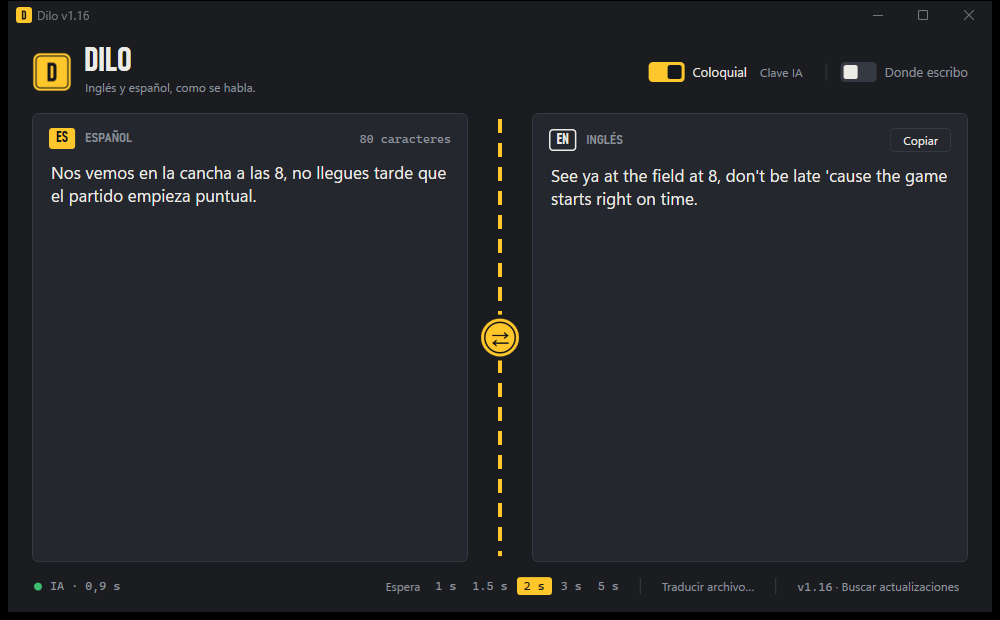
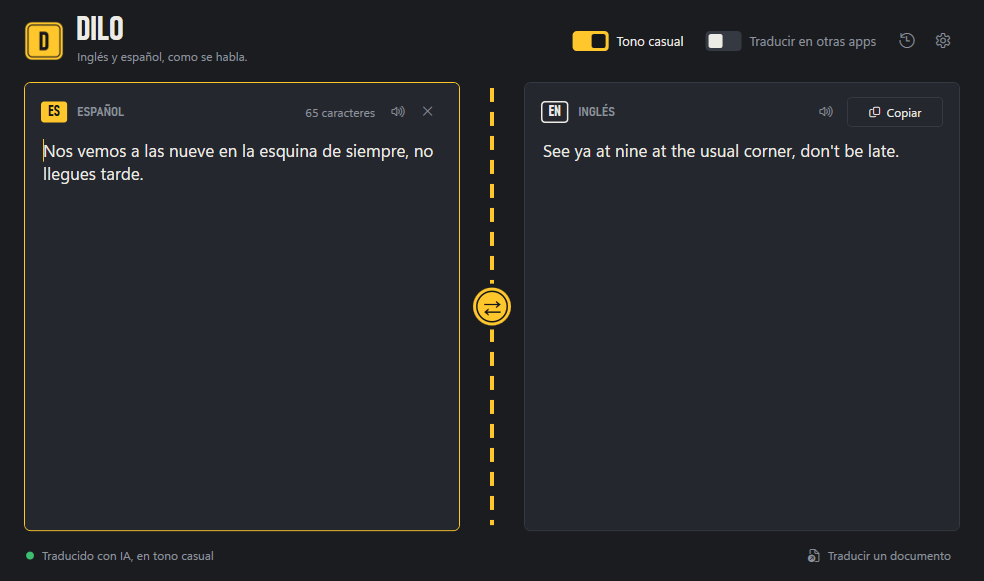
Docs for 1.17.0: changelog, features, privacy, troubleshooting and new screenshot

diff --git a/README.md b/README.md
@@ -36,6 +36,11 @@ maintained privately.
   any app, and **Replace what I wrote** swaps your sentence for the translation in place.
 - **Selection shortcut.** Select text in any app and press <kbd>Ctrl</kbd>+<kbd>Shift</kbd>+<kbd>T</kbd>.
 - **Documents.** Translate `.txt`, `.md`, `.docx` and `.srt` files while keeping their structure.
+- **Listen.** Hear either text read aloud with the voices built into Windows.
+- **History.** Your last 50 translations, one click away, encrypted on your PC.
+- **Always at hand.** Dilo lives in the system tray, can start with Windows and remembers
+  its window size and position.
+- **Light, dark or match Windows**, with adjustable text size (<kbd>Ctrl</kbd> + mouse wheel).
 - **In-app updates.** Dilo checks this repository and updates itself in one click.
 
 ## System requirements
@@ -62,7 +67,7 @@ next to each file. To check the file you downloaded, open PowerShell in your Dow
 and run:
 
 ```powershell
-Get-FileHash .\Dilo-Setup-1.16.0.msi -Algorithm SHA256
+Get-FileHash .\Dilo-Setup-1.17.0.msi -Algorithm SHA256
 ```
 
 The `Hash` value must match the one published in the release. If it does not, delete the
@@ -72,9 +77,10 @@ file and download it again.
 
 From version 1.16.0, Dilo updates itself:
 
-1. Dilo checks for new versions when it starts. You can also select
-   **Buscar actualizaciones** (Check for updates) in the bottom-right corner.
-2. When a new version is available, select **Actualizar a vX.Y.Z** (Update to vX.Y.Z).
+1. Dilo checks for new versions when it starts. You can also open **Ajustes** (Settings,
+   the gear icon) and select **Buscar actualizaciones** (Check for updates).
+2. When a new version is available, select **Actualizar a la versión X.Y.Z**
+   (Update to version X.Y.Z) in the bottom-right corner.
 3. Dilo downloads the installer, verifies its checksum, closes, installs the update and
    reopens. Windows asks for permission once.
 
@@ -83,19 +89,25 @@ updated once by downloading the installer manually.
 
 ## Uninstalling
 
-Open **Settings → Apps → Installed apps**, find **Dilo** and select **Uninstall**.
-Your settings stay in `%AppData%\TraductorENES`; delete that folder to remove them too.
+First quit Dilo: right-click its tray icon and select **Salir de Dilo** (Quit Dilo). Then open
+**Settings → Apps → Installed apps**, find **Dilo** and select **Uninstall**.
+Your settings and history stay in `%AppData%\TraductorENES`; delete that folder to remove
+them too.
 
 ## Privacy
 
 - **What leaves your PC:** only the text being translated, sent over HTTPS to the
   translation service in use: Google Translate, Groq (casual mode, with your own key) or
   MyMemory (fallback).
-- **What stays on your PC:** your settings and API key, stored in
-  `%AppData%\TraductorENES\settings.json`.
+- **What stays on your PC:** your settings in `%AppData%\TraductorENES`. Your API key and
+  your translation history are encrypted with Windows Data Protection (DPAPI): only your
+  Windows account, on this PC, can read them. History can be turned off or cleared in
+  Settings.
 - **Translate where you type** is off by default. When enabled, Dilo reads the keys you
   type in other apps to build the current sentence. That sentence is held in memory only
-  long enough to translate it and is never written to disk.
+  long enough to translate it, is never written to disk and never enters the history.
+  Password fields and password managers are ignored completely.
+- Diagnostic logs record events, never the text you type, and are capped at about 1 MB.
 - Dilo has no accounts, no analytics and no advertising.
 
 ## Troubleshooting
@@ -104,13 +116,16 @@ Your settings stay in `%AppData%\TraductorENES`; delete that folder to remove th
 |---|---|
 | "Windows protected your PC" when installing | Select **More info → Run anyway**. See [Installation](#installation). |
 | Translations stop working | Check your internet connection. If Google is unavailable, Dilo falls back to AI (with a key) or MyMemory automatically. |
-| Casual mode has no effect | Add your free Groq API key with **Clave IA** (AI key). |
+| Translations stop working and a red notice appears | Check your connection and select **Reintentar** (Retry). |
+| Casual mode has no effect | Open **Ajustes** (Settings) and add your free Groq API key under **Clave de IA**. |
 | <kbd>Ctrl</kbd>+<kbd>Shift</kbd>+<kbd>T</kbd> does nothing | Another app may already use that shortcut. Close it and restart Dilo. |
+| Closing the window doesn't quit Dilo | By default Dilo asks; if you chose the tray, quit from the tray icon or change it in **Ajustes → Al cerrar la ventana**. |
+| "Listen" says there is no voice | Add the English or Spanish voice in **Windows Settings → Time & language → Speech**. |
 
 ## Support
 
 Found a bug or have a suggestion? [Open an issue](https://github.com/Grawkles/Dilo-releases/issues/new)
-and include your Dilo version (shown in the bottom-right corner of the window) and your
+and include your Dilo version (shown in the title bar and in **Ajustes → Acerca de**) and your
 Windows version. For security issues, see [SECURITY.md](SECURITY.md).
 
 ## License

diff --git a/CHANGELOG.md b/CHANGELOG.md
@@ -7,6 +7,44 @@ and this project adheres to [Semantic Versioning](https://semver.org/spec/v2.0.0
 
 ## [Unreleased]
 
+## [1.17.0] - 2026-10-22
+
+### Added
+
+- A four-step introduction the first time Dilo opens, available again from Settings.
+- A Settings window with sections for translation, other apps, appearance, general options
+  and version information.
+- Light theme and a "Match Windows" option that follow changes instantly, without restarting.
+- Translation history: the last 50 translations from the main window, encrypted on your PC.
+- Listen buttons that read the text or the translation aloud with the voices in Windows.
+- Clear button for the text box, and text size control with <kbd>Ctrl</kbd> + mouse wheel.
+- System tray icon. Dilo can stay in the tray when the window is closed and start with Windows.
+- When you close the window, Dilo asks whether to keep running in the tray or quit, with an
+  option to remember your choice.
+- An error notice with a **Retry** button when a translation fails.
+- A notice when Dilo detects the language you are typing in and switches direction.
+- Animations throughout: a loading screen, the window entrance, the road line moving while
+  Dilo translates, flipping language signs, paint flecks when you copy and an animated
+  close prompt. They are turned off when Windows animation effects are off.
+
+### Changed
+
+- The main window is simpler: everything except translating moved to Settings, and status
+  messages use plain language.
+- The floating translation card stays open while the pointer is over it and remains visible
+  longer for longer text.
+- "Copied" is confirmed on the Copy button itself.
+- The window remembers its size and position.
+- Opening Dilo while it is already running brings the existing window forward instead of
+  starting a second copy.
+
+### Security
+
+- Password fields and password managers are never read while "Translate where you type" is on.
+- The AI API key is stored encrypted with Windows Data Protection (DPAPI). Keys saved in plain
+  text by earlier versions are encrypted automatically.
+- Diagnostic logs are capped at about 1 MB.
+
 ## [1.16.0] - 2026-10-21
 
 ### Added
@@ -50,6 +88,7 @@ and this project adheres to [Semantic Versioning](https://semver.org/spec/v2.0.0
 - First release: live English ⇄ Spanish translation with automatic language detection,
   casual AI mode, translation in other apps, selection shortcut and document translation.
 
-[Unreleased]: https://github.com/Grawkles/Dilo-releases/compare/v1.16.0...HEAD
+[Unreleased]: https://github.com/Grawkles/Dilo-releases/compare/v1.17.0...HEAD
+[1.17.0]: https://github.com/Grawkles/Dilo-releases/releases/tag/v1.17.0
 [1.16.0]: https://github.com/Grawkles/Dilo-releases/releases/tag/v1.16.0
 [1.15.0]: https://github.com/Grawkles/Dilo-releases/blob/main/CHANGELOG.md#1150---2026-10-18

diff --git a/SECURITY.md b/SECURITY.md
@@ -7,8 +7,8 @@ Only the latest release receives fixes. Update from within Dilo or download the
 
 | Version | Supported |
 |---|---|
-| 1.16.x | Yes |
-| < 1.16 | No |
+| 1.17.x | Yes |
+| < 1.17 | No |
 
 ## How updates are protected
 
@@ -18,6 +18,12 @@ Only the latest release receives fixes. Update from within Dilo or download the
   publishes for that file. If they differ, the update is discarded.
 - Installers are not code-signed yet. You can verify any download manually as described in
   the [README](README.md#verifying-your-download).
+
+## How your data is protected
+
+- Your AI API key and your translation history are encrypted with Windows Data Protection
+  (DPAPI), so only your Windows account on this PC can read them.
+- "Translate where you type" ignores password fields and password managers entirely.
 
 ## Reporting a vulnerability
 
